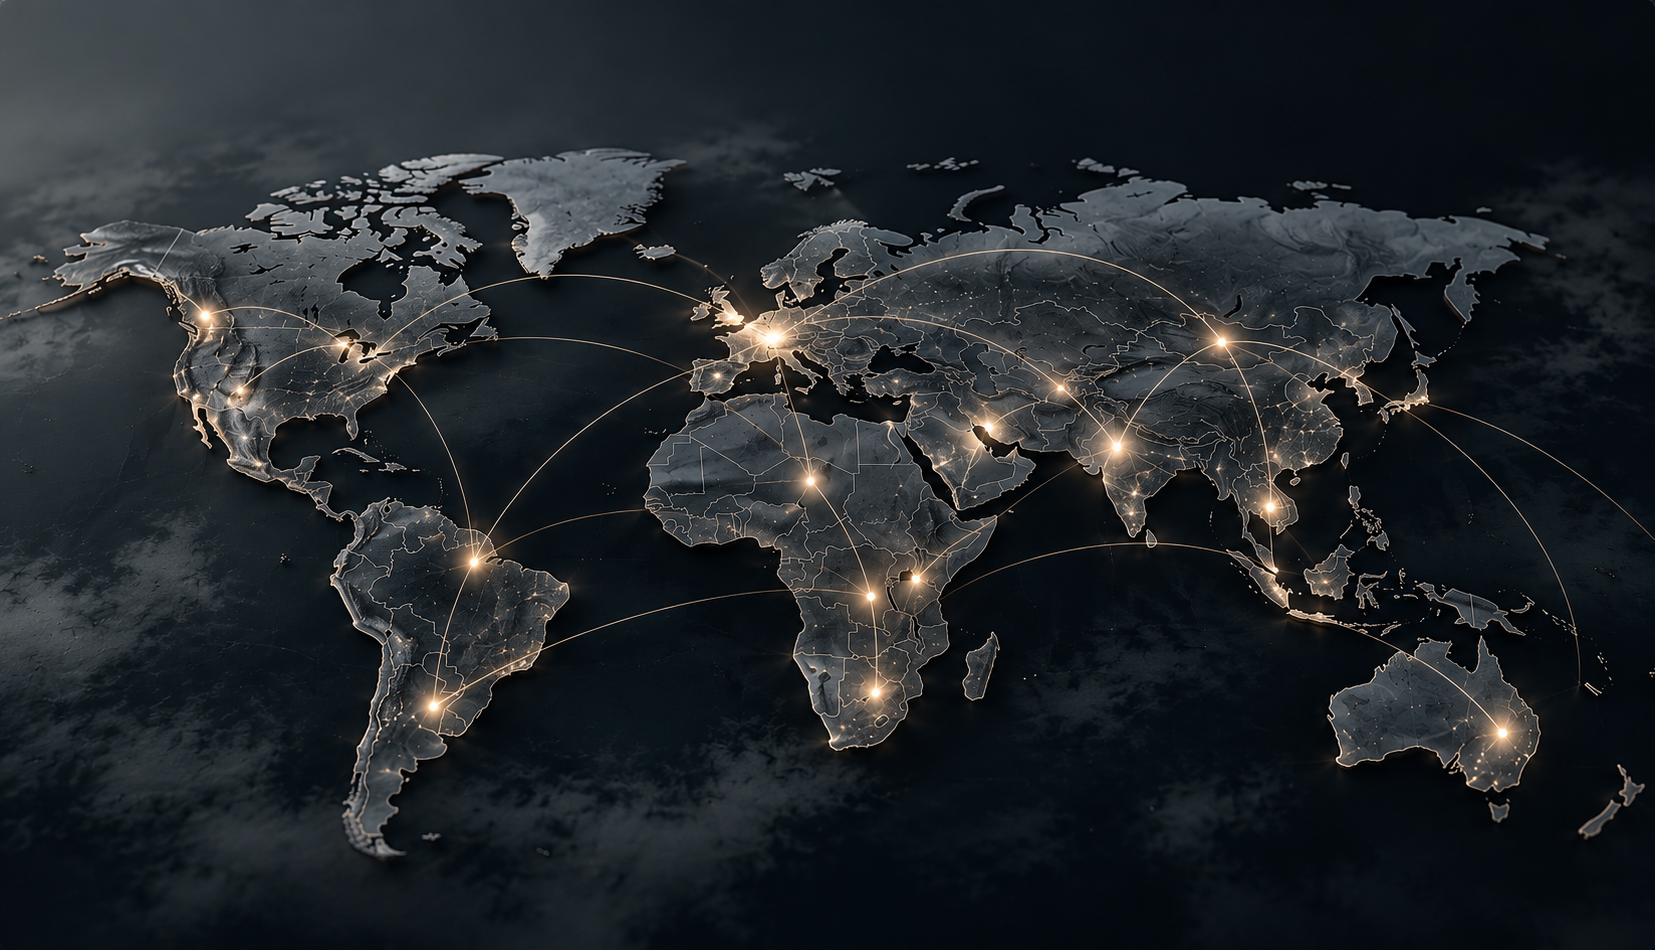
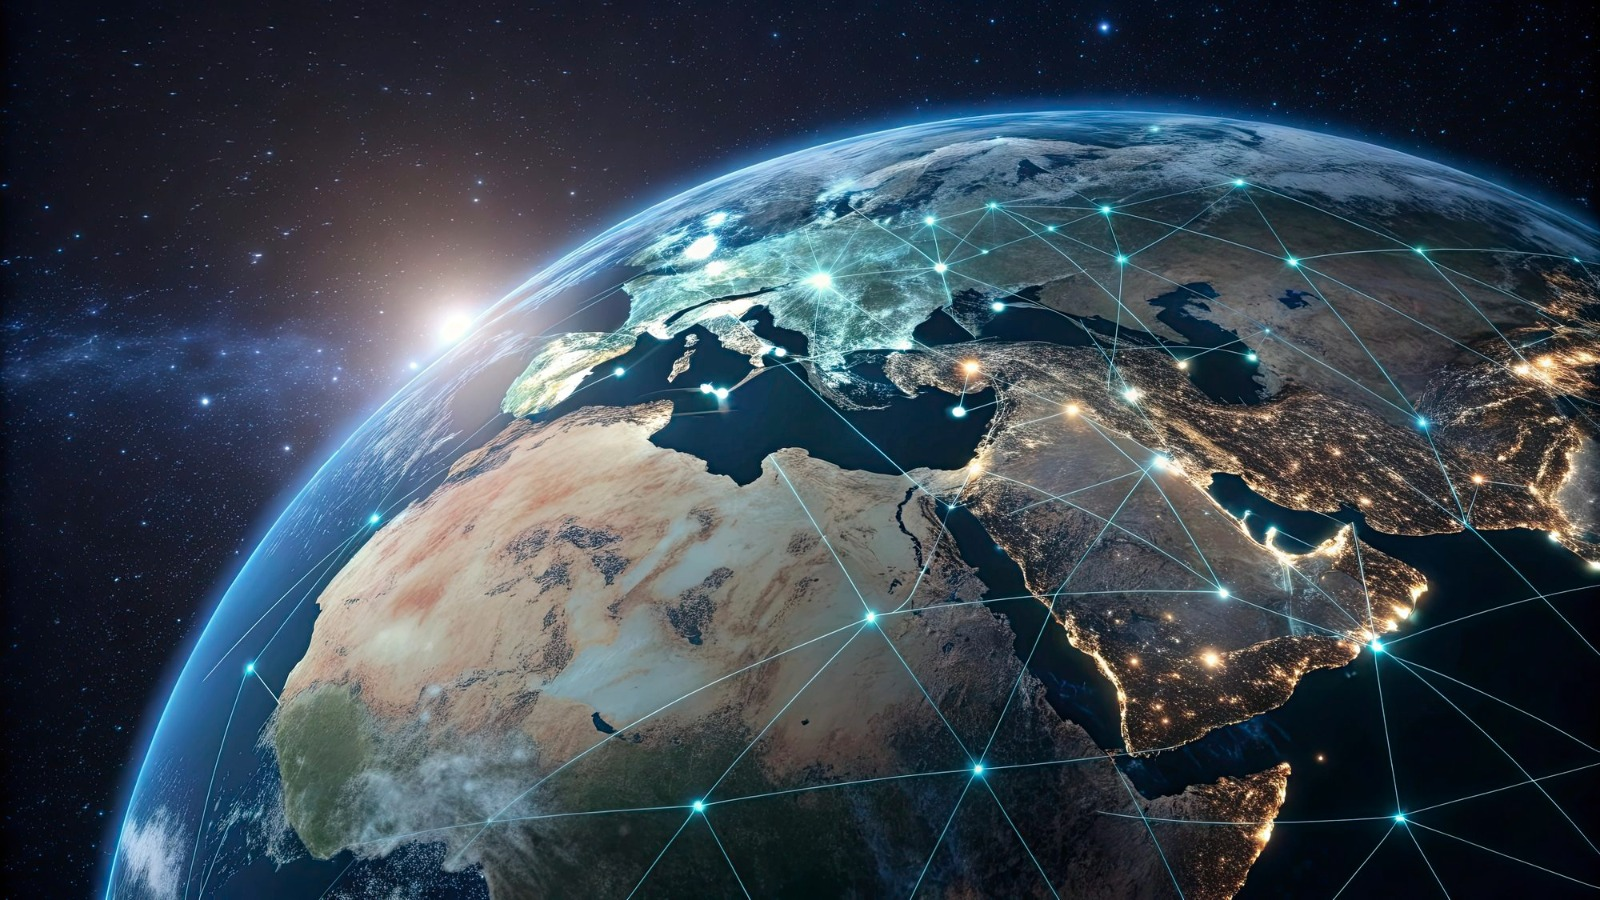
changed a few images

diff --git a/translations.js b/translations.js
@@ -350,7 +350,7 @@ window.BSI_AR_TRANSLATIONS = {
   "Ensuring minimal ecological impact at all stage": "ضمان الحد من الأثر البيئي في كل مرحلة.",
   "We believe in industrial growth that respects the planet. BSI integrates sustainability into every operation - from low-emission engineering to renewable project execution and carbon management initiatives.": "نؤمن بنمو صناعي يحترم كوكبنا. وتدمج BSI الاستدامة في عملياتها كافة، من الهندسة منخفضة الانبعاثات إلى تنفيذ مشاريع الطاقة المتجددة ومبادرات إدارة الكربون.",
   "At BSI, we believe great outcomes are built through strong relationships. Our partnerships extend across technology providers, EPC contractors, OEM manufacturers, and strategic supply networks - each aligned with our vision for engineering excellence and industrial sustainability. Together, we transform complex challenges into integrated, high-performance solutions that power progress.": "نؤمن في BSI بأن النتائج المتميزة تُبنى على علاقات متينة. وتمتد شراكاتنا لتشمل مزودي التقنية ومقاولي الهندسة والتوريد والإنشاء ومصنعي المعدات الأصلية وشبكات الإمداد الاستراتيجية، بما يتوافق مع رؤيتنا للتميز الهندسي والاستدامة الصناعية. ونعمل معاً على تحويل التحديات المعقدة إلى حلول متكاملة وعالية الأداء تدفع عجلة التقدم.",
-  "We collaborate with leading industrial OEM manufacturers and digital technology providers like GTT group and Fouren AI to integrate advanced automation, AI, and manufacturing systems into every project. These alliances enable us to deliver precision, efficiency, and reliability across sectors.": "نتعاون مع كبرى الشركات المصنعة للمعدات الأصلية ومزودي التقنيات الرقمية، مثل GTT Group وFouren AI، لدمج الأتمتة المتقدمة والذكاء الاصطناعي وأنظمة التصنيع في مشاريعنا. وتمكّننا هذه الشراكات من تقديم الدقة والكفاءة والموثوقية عبر مختلف القطاعات.",
+  "We partner with leading Chinese OEMs to deliver high-performance equipment and components for onshore and offshore drilling, workover operations, and specialized oil and gas applications. Serving National Oil Companies (NOCs) and their primary contractors, all equipment and OEM spare parts are fully certified and manufactured in strict compliance with API and ASME standards to ensure peak operational reliability.": "نتعاون مع كبرى الشركات الصينية المصنعة للمعدات الأصلية لتوفير معدات ومكونات عالية الأداء لعمليات الحفر البرية والبحرية، وعمليات الصيانة، وتطبيقات النفط والغاز المتخصصة. نخدم شركات النفط الوطنية ومقاوليها الرئيسيين، وجميع المعدات وقطع الغيار الأصلية معتمدة بالكامل ومصنعة وفقًا لمعايير معهد البترول الأمريكي (API) والجمعية الأمريكية للمهندسين الميكانيكيين (ASME) لضمان أعلى مستويات الموثوقية التشغيلية.",
   "Our vendor partnerships span multiple continents, supporting critical project requirements - from mechanical components and process systems to electrical equipment and industrial consumables.": "تمتد شراكاتنا مع الموردين عبر قارات متعددة لتلبية متطلبات المشاريع الحيوية، من المكونات الميكانيكية وأنظمة العمليات إلى المعدات الكهربائية والمواد الصناعية الاستهلاكية.",
   "We maintain a global network of certified suppliers who share our values of quality, transparency, and timely delivery.": "نحافظ على شبكة عالمية من الموردين المعتمدين الذين يشاركوننا قيم الجودة والشفافية والالتزام بمواعيد التسليم.",
   "Transparency and mutual trust in every collaboration.": "الشفافية والثقة المتبادلة في كل تعاون.",

diff --git a/our-partners.html b/our-partners.html
@@ -41,11 +41,7 @@
           <div>
             <h3>Oilfield Chinese OEM</h3>
             <p class="lead">
-              We collaborate with leading industrial OEM manufacturers and
-              digital technology providers like GTT group and
-              Fouren AI to integrate advanced automation, AI, and manufacturing
-              systems into every project. These alliances enable us to deliver
-              precision, efficiency, and reliability across sectors.
+              We partner with leading Chinese OEMs to deliver high-performance equipment and components for onshore and offshore drilling, workover operations, and specialized oil and gas applications. Serving National Oil Companies (NOCs) and their primary contractors, all equipment and OEM spare parts are fully certified and manufactured in strict compliance with API and ASME standards to ensure peak operational reliability.
             </p>
           </div>
           <div class="img" style="background-position: 35% 50%" data-photo="/assets/oilfield-chinese-oem.png" aria-hidden="true"></div>
